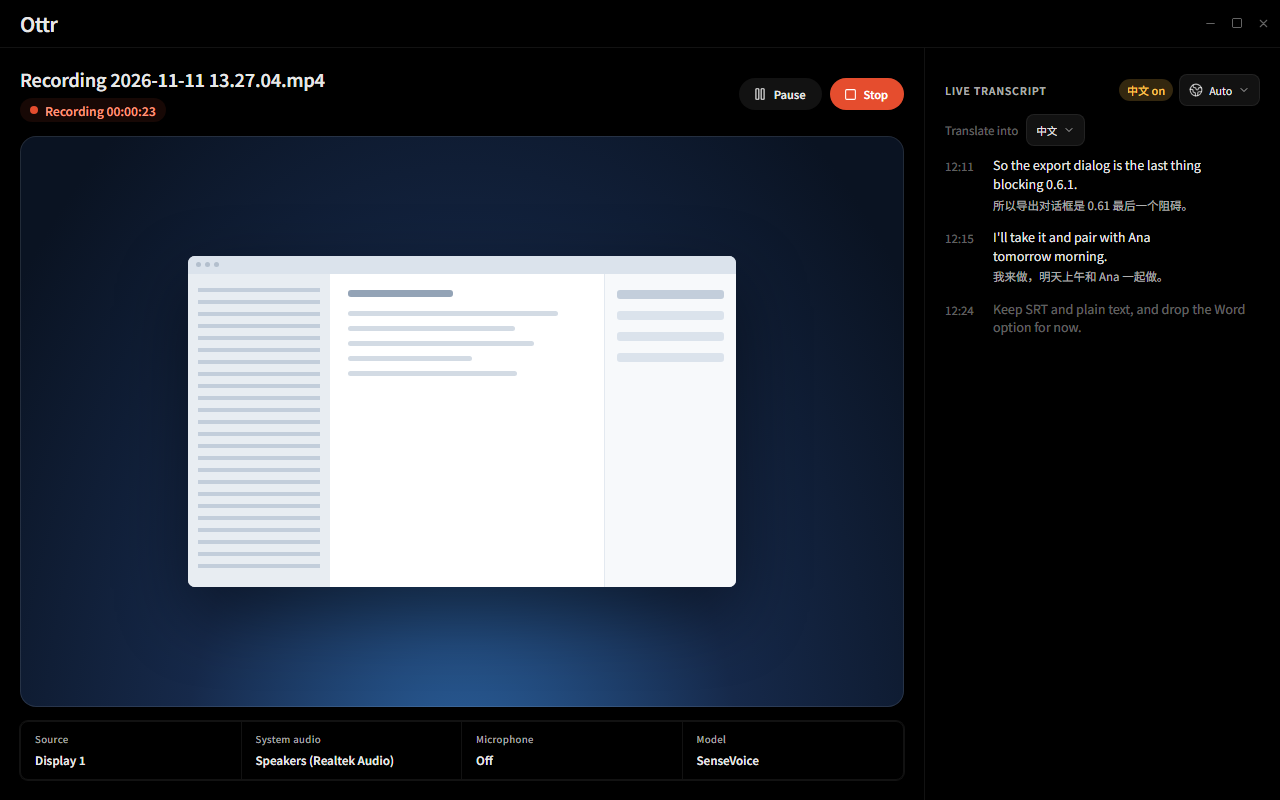
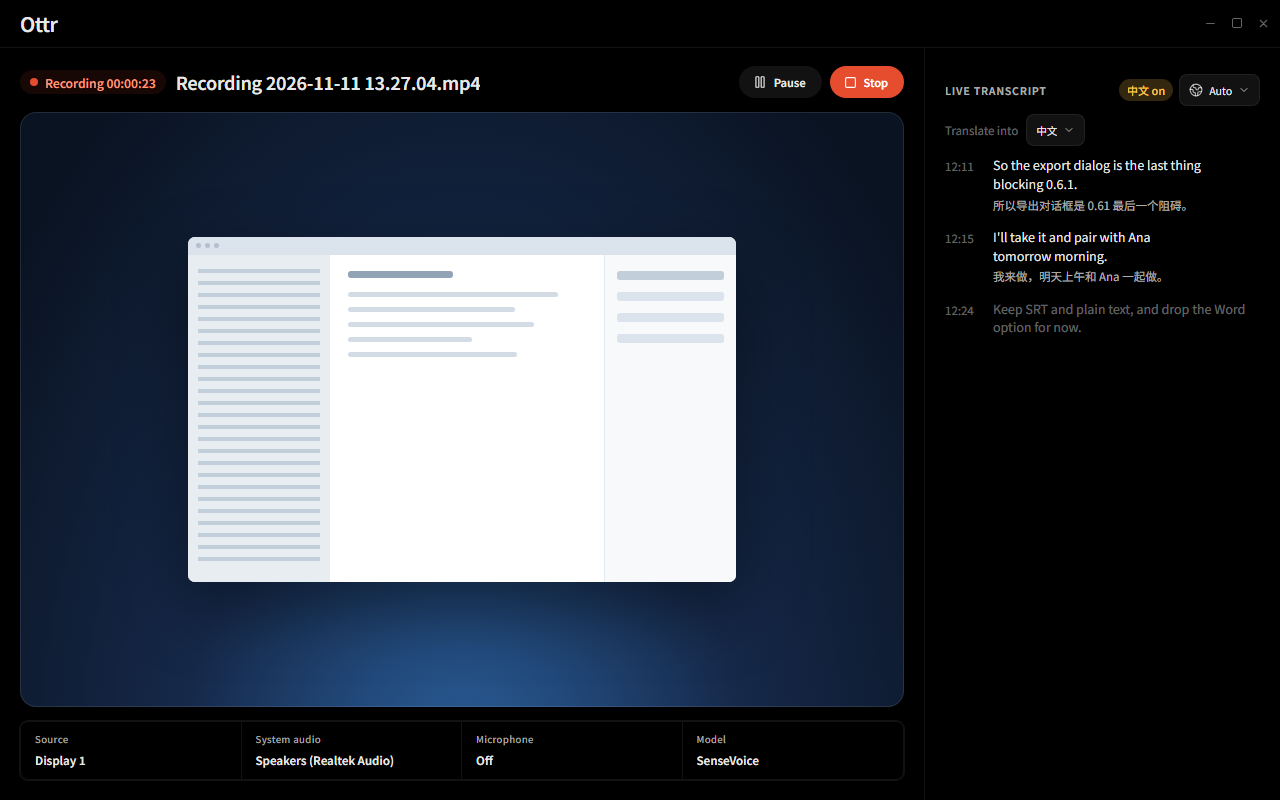
feat(ui): put the REC strip before the name, fix two switch labels
The strip reads before what it is recording, on the same line, so the eye
starts at "recording, 00:12:48" and ends at the file.

Two labels said the wrong thing in Chinese: the spoken language's fallback was
"Auto（自动）" in an otherwise Chinese interface, and a translation switched off
was named after the language — "English 已关闭" — when no translation is shown at
all. Auto is now "自动" in Chinese and stays "Auto" in English, and off reads
"翻译已关闭" / "Translate off". On still names the language it shows.

Design: frames 03 and 04 pushed and re-exported.

Ran at this sha:
- Red check: TestRecordingSwitchLabelsInChinese failed on the parent with
  "Auto（自动）" and "翻译 已关闭"; passes now.
- Full suite: CGO_ENABLED=1 go test ./... locally -> all packages ok, 45 s.
- Real use: OTTR_PREVIEW 03 at 1280 beside the canvas screenshot.
- Not run: a real capture on a device, CI at the pushed head.
Docs: docs/architecture.md, docs/design/README.md.

Changed region(s): [[0.125, 0.2812, 0.5938, 0.75], [0.0, 0.0625, 0.7188, 0.1875]]

diff --git a/docs/design/pages/04-recording-dark.html b/docs/design/pages/04-recording-dark.html
@@ -14,7 +14,7 @@ time,.ptime,.factsrow b,.thumb time,.card-thumb time,.duration{font-variant-nume
 body.dark .player,body.dark .preview,body.dark .thumb,body.dark .card-thumb{box-shadow:inset 0 0 0 1px #ffffff1a}
 body.dark .setrow,body.dark .modelrow,body.dark .factsrow,body.dark .spk{box-shadow:0 0 0 1px #ffffff12}
 @media (prefers-reduced-motion:reduce){*,*:before,*:after{transition:none!important;animation:none!important}}
-.detail{flex:1;display:grid;grid-template-columns:minmax(0,1fr) 356px;min-height:0}.stage{padding:18px 20px 20px;display:flex;flex-direction:column;min-height:0}.head{display:flex;align-items:center;gap:8px;margin-bottom:14px}.head h1{font-size:17px;font-weight:680;letter-spacing:-.3px}.player{border-radius:16px;overflow:hidden;position:relative;flex:1;min-height:420px;background:radial-gradient(ellipse at 50% 118%,#2b62a0 0,#16294a 45%,#0a1322 90%)}.scene{position:absolute;inset:0;display:grid;place-items:center}.scene-win{width:62%;height:58%;background:#f4f6f8;border-radius:7px;box-shadow:0 26px 70px #0007;overflow:hidden}.sb{height:18px;background:#dbe3ec;display:flex;gap:4px;align-items:center;padding-left:8px}.sb i{width:5px;height:5px;border-radius:50%;background:#b3bfcd}.sc{display:grid;grid-template-columns:26% 50% 24%;height:calc(100% - 18px)}.ss{background:#e8edf2;position:relative}.ss:before{content:"";position:absolute;inset:14px 10px;background:repeating-linear-gradient(#c3cedb 0 4px,transparent 4px 12px)}.sm{background:#fff;padding:16px 18px}.sm strong{display:block;height:7px;width:44%;background:#93a3b6;border-radius:3px;margin-bottom:14px}.sm span{display:block;height:5px;background:#d3dbe4;border-radius:3px;margin-bottom:10px;width:88%}.sm span:nth-child(3){width:70%}.sm span:nth-child(4){width:78%}.sm span:nth-child(5){width:52%}.sm span:nth-child(6){width:71%}.sr{background:#f7f9fb;border-left:1px solid #e3e9f0;padding:16px 12px}.sr b{display:block;height:9px;border-radius:3px;background:#dbe3ec;margin-bottom:12px}.sr b:first-child{background:#c3cedb}.pcontrols{position:absolute;left:0;right:0;bottom:0;padding:12px 18px 6px;color:#fff;background:linear-gradient(transparent,#000a 40%,#000d)}.ptop{display:flex;align-items:center;gap:12px;font-size:12px}.ptop time{opacity:.9}.seek{height:4px;border-radius:4px;background:#ffffff3b;margin-top:9px;position:relative}.seek i{display:block;width:62%;height:100%;background:#fff;border-radius:4px}.seek b{position:absolute;left:62%;top:-4px;width:12px;height:12px;border-radius:50%;background:#fff;transform:translateX(-50%)}.factsrow{display:grid;grid-template-columns:repeat(4,1fr);border:1px solid var(--border);border-radius:8px;margin-top:14px}.factsrow div{padding:10px 14px;border-right:1px solid var(--border)}.factsrow div:last-child{border:0}.factsrow small{display:block;font-size:9.5px;letter-spacing:.05em;color:var(--secondary);margin-bottom:3px}.factsrow b{font-size:11.5px}.side{border-left:1px solid var(--border);padding:12px 12px 0;display:flex;flex-direction:column;min-height:0}.tabbar{display:flex;align-items:center;gap:16px;height:36px;border-bottom:1px solid var(--border);font-size:12px;color:var(--secondary)}.tabbar b{color:var(--primary);font-weight:650;border-bottom:2px solid var(--brand);height:36px;display:flex;align-items:center}.tabbar .icon-btn{width:26px;height:26px}.ttools{position:relative;display:flex;gap:6px;align-items:center;margin-top:10px}.ttools .search{height:32px;font-size:11px;padding:0 10px}.searchbtn{width:32px;height:32px;flex:none;border:1px solid var(--border);border-radius:8px;background:var(--component);display:grid;place-items:center;color:var(--secondary)}.searchbtn:hover{background:var(--component-hover);color:var(--primary)}.searchpanel{display:none;position:absolute;left:38px;right:0;top:0;height:32px;align-items:center;gap:8px;padding:0 10px;border:1px solid var(--border);border-radius:8px;background:var(--page);box-shadow:var(--shadow-default);z-index:3}.ttools.searching .searchpanel{display:flex}.searchpanel input{border:0;background:none;outline:none;flex:1;width:0;min-width:0;font:inherit;font-size:11px;color:var(--primary)}.searchpanel input::placeholder{color:var(--tertiary)}.langsel{height:32px;flex:none;max-width:118px;min-width:0;border:1px solid var(--border);border-radius:8px;background:var(--component);display:flex;align-items:center;gap:6px;padding:0 9px;font-size:10.5px;color:var(--primary)}.langsel:hover{background:var(--component-hover)}.langsel .ic{color:var(--secondary)}.langsel .val{min-width:0;overflow:hidden;text-overflow:ellipsis;white-space:nowrap;flex:1}.ttools .search{flex:1;min-width:70px}.pill{height:32px;max-width:150px;border:1px solid var(--border);border-radius:999px;background:var(--component);color:var(--secondary);font-size:10.5px;display:flex;align-items:center;gap:5px;padding:0 9px;white-space:nowrap;overflow:hidden}.pill .ic{flex:none}.switch{width:26px;height:15px;border-radius:999px;background:var(--brand);position:relative;margin-left:10px}.switch i{position:absolute;right:2px;top:2px;width:11px;height:11px;border-radius:50%;background:#fff}.switchlab{font-size:10.5px;color:var(--tertiary)}.subs{display:grid;gap:10px;margin-top:14px;overflow:hidden}.srow{display:flex;gap:10px}.avatar{width:30px;height:30px;flex:none;border-radius:50%;background:#0090ff29;color:var(--brand);display:grid;place-items:center;font-size:10px;font-weight:650}.sbody{min-width:0;flex:1}.shead{display:flex;align-items:center;gap:8px;margin-bottom:2px;font-size:10px}.shead time{color:var(--secondary);font-variant-numeric:tabular-nums}.shead b{font-size:11px;font-weight:650}.bubble{padding:7px 11px;border-radius:10px;background:var(--component)}.bubble p{font-size:11.5px;line-height:1.5}.bubble .tr{margin-top:3px;font-size:10.5px;color:var(--secondary)}.srow.s2 .avatar{background:#30a46c29;color:#008647}.srow.s3 .avatar{background:#f76b1529;color:#cc4e00}.srow.s4 .avatar{background:#e54d2e29;color:#d72400}body.dark .avatar{background:#0090ff33;color:#3b9eff}body.dark .srow.s2 .avatar{background:#30a46c33;color:#43fea4}body.dark .srow.s3 .avatar{background:#f76b1533;color:#ffa057}body.dark .srow.s4 .avatar{background:#e54d2e33;color:#ff977d}.titles{display:flex;flex-direction:column;align-items:flex-start;gap:6px;min-width:0}.titles h1{font-size:18px;font-weight:680;letter-spacing:-.2px;white-space:nowrap;overflow:hidden;text-overflow:ellipsis}
+.detail{flex:1;display:grid;grid-template-columns:minmax(0,1fr) 356px;min-height:0}.stage{padding:18px 20px 20px;display:flex;flex-direction:column;min-height:0}.head{display:flex;align-items:center;gap:8px;margin-bottom:14px}.head h1{font-size:17px;font-weight:680;letter-spacing:-.3px}.player{border-radius:16px;overflow:hidden;position:relative;flex:1;min-height:420px;background:radial-gradient(ellipse at 50% 118%,#2b62a0 0,#16294a 45%,#0a1322 90%)}.scene{position:absolute;inset:0;display:grid;place-items:center}.scene-win{width:62%;height:58%;background:#f4f6f8;border-radius:7px;box-shadow:0 26px 70px #0007;overflow:hidden}.sb{height:18px;background:#dbe3ec;display:flex;gap:4px;align-items:center;padding-left:8px}.sb i{width:5px;height:5px;border-radius:50%;background:#b3bfcd}.sc{display:grid;grid-template-columns:26% 50% 24%;height:calc(100% - 18px)}.ss{background:#e8edf2;position:relative}.ss:before{content:"";position:absolute;inset:14px 10px;background:repeating-linear-gradient(#c3cedb 0 4px,transparent 4px 12px)}.sm{background:#fff;padding:16px 18px}.sm strong{display:block;height:7px;width:44%;background:#93a3b6;border-radius:3px;margin-bottom:14px}.sm span{display:block;height:5px;background:#d3dbe4;border-radius:3px;margin-bottom:10px;width:88%}.sm span:nth-child(3){width:70%}.sm span:nth-child(4){width:78%}.sm span:nth-child(5){width:52%}.sm span:nth-child(6){width:71%}.sr{background:#f7f9fb;border-left:1px solid #e3e9f0;padding:16px 12px}.sr b{display:block;height:9px;border-radius:3px;background:#dbe3ec;margin-bottom:12px}.sr b:first-child{background:#c3cedb}.pcontrols{position:absolute;left:0;right:0;bottom:0;padding:12px 18px 6px;color:#fff;background:linear-gradient(transparent,#000a 40%,#000d)}.ptop{display:flex;align-items:center;gap:12px;font-size:12px}.ptop time{opacity:.9}.seek{height:4px;border-radius:4px;background:#ffffff3b;margin-top:9px;position:relative}.seek i{display:block;width:62%;height:100%;background:#fff;border-radius:4px}.seek b{position:absolute;left:62%;top:-4px;width:12px;height:12px;border-radius:50%;background:#fff;transform:translateX(-50%)}.factsrow{display:grid;grid-template-columns:repeat(4,1fr);border:1px solid var(--border);border-radius:8px;margin-top:14px}.factsrow div{padding:10px 14px;border-right:1px solid var(--border)}.factsrow div:last-child{border:0}.factsrow small{display:block;font-size:9.5px;letter-spacing:.05em;color:var(--secondary);margin-bottom:3px}.factsrow b{font-size:11.5px}.side{border-left:1px solid var(--border);padding:12px 12px 0;display:flex;flex-direction:column;min-height:0}.tabbar{display:flex;align-items:center;gap:16px;height:36px;border-bottom:1px solid var(--border);font-size:12px;color:var(--secondary)}.tabbar b{color:var(--primary);font-weight:650;border-bottom:2px solid var(--brand);height:36px;display:flex;align-items:center}.tabbar .icon-btn{width:26px;height:26px}.ttools{position:relative;display:flex;gap:6px;align-items:center;margin-top:10px}.ttools .search{height:32px;font-size:11px;padding:0 10px}.searchbtn{width:32px;height:32px;flex:none;border:1px solid var(--border);border-radius:8px;background:var(--component);display:grid;place-items:center;color:var(--secondary)}.searchbtn:hover{background:var(--component-hover);color:var(--primary)}.searchpanel{display:none;position:absolute;left:38px;right:0;top:0;height:32px;align-items:center;gap:8px;padding:0 10px;border:1px solid var(--border);border-radius:8px;background:var(--page);box-shadow:var(--shadow-default);z-index:3}.ttools.searching .searchpanel{display:flex}.searchpanel input{border:0;background:none;outline:none;flex:1;width:0;min-width:0;font:inherit;font-size:11px;color:var(--primary)}.searchpanel input::placeholder{color:var(--tertiary)}.langsel{height:32px;flex:none;max-width:118px;min-width:0;border:1px solid var(--border);border-radius:8px;background:var(--component);display:flex;align-items:center;gap:6px;padding:0 9px;font-size:10.5px;color:var(--primary)}.langsel:hover{background:var(--component-hover)}.langsel .ic{color:var(--secondary)}.langsel .val{min-width:0;overflow:hidden;text-overflow:ellipsis;white-space:nowrap;flex:1}.ttools .search{flex:1;min-width:70px}.pill{height:32px;max-width:150px;border:1px solid var(--border);border-radius:999px;background:var(--component);color:var(--secondary);font-size:10.5px;display:flex;align-items:center;gap:5px;padding:0 9px;white-space:nowrap;overflow:hidden}.pill .ic{flex:none}.switch{width:26px;height:15px;border-radius:999px;background:var(--brand);position:relative;margin-left:10px}.switch i{position:absolute;right:2px;top:2px;width:11px;height:11px;border-radius:50%;background:#fff}.switchlab{font-size:10.5px;color:var(--tertiary)}.subs{display:grid;gap:10px;margin-top:14px;overflow:hidden}.srow{display:flex;gap:10px}.avatar{width:30px;height:30px;flex:none;border-radius:50%;background:#0090ff29;color:var(--brand);display:grid;place-items:center;font-size:10px;font-weight:650}.sbody{min-width:0;flex:1}.shead{display:flex;align-items:center;gap:8px;margin-bottom:2px;font-size:10px}.shead time{color:var(--secondary);font-variant-numeric:tabular-nums}.shead b{font-size:11px;font-weight:650}.bubble{padding:7px 11px;border-radius:10px;background:var(--component)}.bubble p{font-size:11.5px;line-height:1.5}.bubble .tr{margin-top:3px;font-size:10.5px;color:var(--secondary)}.srow.s2 .avatar{background:#30a46c29;color:#008647}.srow.s3 .avatar{background:#f76b1529;color:#cc4e00}.srow.s4 .avatar{background:#e54d2e29;color:#d72400}body.dark .avatar{background:#0090ff33;color:#3b9eff}body.dark .srow.s2 .avatar{background:#30a46c33;color:#43fea4}body.dark .srow.s3 .avatar{background:#f76b1533;color:#ffa057}body.dark .srow.s4 .avatar{background:#e54d2e33;color:#ff977d}.titles{display:flex;align-items:center;gap:10px;min-width:0}.titles h1{font-size:18px;font-weight:680;letter-spacing:-.2px;white-space:nowrap;overflow:hidden;text-overflow:ellipsis}
 .rec-pill{display:inline-flex;align-items:center;gap:7px;height:24px;padding:0 10px;border-radius:999px;background:#e54d2e1a;color:var(--danger);font-size:12px;font-weight:600;font-variant-numeric:tabular-nums}
 .livehead{display:flex;align-items:center;gap:6px;padding:14px 8px 8px 8px;flex:none}.livehead .caps{flex:1;font-size:10.5px;font-weight:600;letter-spacing:.08em;text-transform:uppercase;color:var(--secondary)}
 .livehead .chip{display:inline-flex;align-items:center;height:22px;padding:0 8px;border-radius:999px;font-size:11px;font-weight:500;background:#fff4db;color:#8a5600}body.dark .livehead .chip{background:#33270f;color:#ffc453}
@@ -23,7 +23,7 @@ body.dark .setrow,body.dark .modelrow,body.dark .factsrow,body.dark .spk{box-sha
 .lrow{display:flex;gap:12px}.lrow time{flex:none;width:36px;padding-top:2px;font-size:11.5px;color:var(--tertiary);font-variant-numeric:tabular-nums}.lrow .lt{flex:1;min-width:0;font-size:12.5px;line-height:1.5;color:var(--primary);margin:0}.lrow .lt .tr{display:block;margin-top:3px;font-size:11.5px;color:var(--secondary)}
 .lrow.live .lt{color:var(--tertiary)}
 </style></head><body class="dark"><div class="app"><header class="titlebar"><div class="brand">Ottr</div><div class="spacer"></div><div class="win"><svg class="ic " width="13" height="13" xmlns="http://www.w3.org/2000/svg"  viewBox="0 0 24 24"><path fill="none" stroke="currentColor" stroke-linecap="round" stroke-linejoin="round" stroke-width="2" d="M5 12h14"/></svg><svg class="ic " width="12" height="12" xmlns="http://www.w3.org/2000/svg"  viewBox="0 0 24 24"><rect width="18" height="18" x="3" y="3" fill="none" stroke="currentColor" stroke-linecap="round" stroke-linejoin="round" stroke-width="2" rx="2"/></svg><svg class="ic " width="13" height="13" xmlns="http://www.w3.org/2000/svg"  viewBox="0 0 24 24"><path fill="none" stroke="currentColor" stroke-linecap="round" stroke-linejoin="round" stroke-width="2" d="M18 6L6 18M6 6l12 12"/></svg></div></header><main class="detail"><section class="stage">
-<div class="head"><div class="titles"><h1>Recording 2026-11-11 13.27.04.mp4</h1><span class="rec-pill"><span style="width:8px;height:8px;border-radius:50%;background:var(--danger-solid)"></span>Recording 00:00:23</span></div><div class="spacer"></div><button class="btn secondary sm"><svg class="ic " width="14" height="14" xmlns="http://www.w3.org/2000/svg"  viewBox="0 0 24 24"><g fill="none" stroke="currentColor" stroke-linecap="round" stroke-linejoin="round" stroke-width="2"><rect width="5" height="18" x="14" y="3" rx="1"/><rect width="5" height="18" x="5" y="3" rx="1"/></g></svg>Pause</button><button class="btn stop sm" data-doop-on="click" data-doop-action="navigate:7IAHHDxZVe" data-doop-transition="dissolve" data-doop-duration="250"><svg class="ic " width="13" height="13" xmlns="http://www.w3.org/2000/svg"  viewBox="0 0 24 24"><rect width="18" height="18" x="3" y="3" fill="none" stroke="currentColor" stroke-linecap="round" stroke-linejoin="round" stroke-width="2" rx="2"/></svg>Stop</button></div>
+<div class="head"><div class="titles"><span class="rec-pill"><span style="width:8px;height:8px;border-radius:50%;background:var(--danger-solid)"></span>Recording 00:00:23</span><h1>Recording 2026-11-11 13.27.04.mp4</h1></div><div class="spacer"></div><button class="btn secondary sm"><svg class="ic " width="14" height="14" xmlns="http://www.w3.org/2000/svg"  viewBox="0 0 24 24"><g fill="none" stroke="currentColor" stroke-linecap="round" stroke-linejoin="round" stroke-width="2"><rect width="5" height="18" x="14" y="3" rx="1"/><rect width="5" height="18" x="5" y="3" rx="1"/></g></svg>Pause</button><button class="btn stop sm" data-doop-on="click" data-doop-action="navigate:7IAHHDxZVe" data-doop-transition="dissolve" data-doop-duration="250"><svg class="ic " width="13" height="13" xmlns="http://www.w3.org/2000/svg"  viewBox="0 0 24 24"><rect width="18" height="18" x="3" y="3" fill="none" stroke="currentColor" stroke-linecap="round" stroke-linejoin="round" stroke-width="2" rx="2"/></svg>Stop</button></div>
 <div class="player"><div class="scene"><div class="scene-win"><div class="sb"><i></i><i></i><i></i></div><div class="sc"><div class="ss"></div><div class="sm"><strong></strong><span></span><span></span><span></span><span></span><span></span></div><div class="sr"><b></b><b></b><b></b><b></b></div></div></div></div></div>
 <div class="factsrow"><div><small>Source</small><b>Display 1</b></div><div><small>System audio</small><b>Speakers (Realtek Audio)</b></div><div><small>Microphone</small><b>Off</b></div><div><small>Model</small><b>SenseVoice</b></div></div>
 </section><aside class="side"><div class="livehead"><span class="caps">Live transcript</span><span class="chip">中文 on</span><button class="langsel selectbox" title="Spoken language" data-options="Auto|English|中文|日本語" data-value="Auto"><svg class="ic " width="14" height="14" xmlns="http://www.w3.org/2000/svg"  viewBox="0 0 24 24"><g fill="none" stroke="currentColor" stroke-linecap="round" stroke-linejoin="round" stroke-width="2"><path d="M21.54 15H17a2 2 0 0 0-2 2v4.54M7 3.34V5a3 3 0 0 0 3 3a2 2 0 0 1 2 2c0 1.1.9 2 2 2a2 2 0 0 0 2-2c0-1.1.9-2 2-2h3.17M11 21.95V18a2 2 0 0 0-2-2a2 2 0 0 1-2-2v-1a2 2 0 0 0-2-2H2.05"/><circle cx="12" cy="12" r="10"/></g></svg><span class="val">Auto</span><svg class="ic " width="12" height="12" xmlns="http://www.w3.org/2000/svg"  viewBox="0 0 24 24"><path fill="none" stroke="currentColor" stroke-linecap="round" stroke-linejoin="round" stroke-width="2" d="m6 9l6 6l6-6"/></svg></button></div>

diff --git a/docs/design/pages/03-recording.html b/docs/design/pages/03-recording.html
@@ -14,7 +14,7 @@ time,.ptime,.factsrow b,.thumb time,.card-thumb time,.duration{font-variant-nume
 body.dark .player,body.dark .preview,body.dark .thumb,body.dark .card-thumb{box-shadow:inset 0 0 0 1px #ffffff1a}
 body.dark .setrow,body.dark .modelrow,body.dark .factsrow,body.dark .spk{box-shadow:0 0 0 1px #ffffff12}
 @media (prefers-reduced-motion:reduce){*,*:before,*:after{transition:none!important;animation:none!important}}
-.detail{flex:1;display:grid;grid-template-columns:minmax(0,1fr) 356px;min-height:0}.stage{padding:18px 20px 20px;display:flex;flex-direction:column;min-height:0}.head{display:flex;align-items:center;gap:8px;margin-bottom:14px}.head h1{font-size:17px;font-weight:680;letter-spacing:-.3px}.player{border-radius:16px;overflow:hidden;position:relative;flex:1;min-height:420px;background:radial-gradient(ellipse at 50% 118%,#2b62a0 0,#16294a 45%,#0a1322 90%)}.scene{position:absolute;inset:0;display:grid;place-items:center}.scene-win{width:62%;height:58%;background:#f4f6f8;border-radius:7px;box-shadow:0 26px 70px #0007;overflow:hidden}.sb{height:18px;background:#dbe3ec;display:flex;gap:4px;align-items:center;padding-left:8px}.sb i{width:5px;height:5px;border-radius:50%;background:#b3bfcd}.sc{display:grid;grid-template-columns:26% 50% 24%;height:calc(100% - 18px)}.ss{background:#e8edf2;position:relative}.ss:before{content:"";position:absolute;inset:14px 10px;background:repeating-linear-gradient(#c3cedb 0 4px,transparent 4px 12px)}.sm{background:#fff;padding:16px 18px}.sm strong{display:block;height:7px;width:44%;background:#93a3b6;border-radius:3px;margin-bottom:14px}.sm span{display:block;height:5px;background:#d3dbe4;border-radius:3px;margin-bottom:10px;width:88%}.sm span:nth-child(3){width:70%}.sm span:nth-child(4){width:78%}.sm span:nth-child(5){width:52%}.sm span:nth-child(6){width:71%}.sr{background:#f7f9fb;border-left:1px solid #e3e9f0;padding:16px 12px}.sr b{display:block;height:9px;border-radius:3px;background:#dbe3ec;margin-bottom:12px}.sr b:first-child{background:#c3cedb}.pcontrols{position:absolute;left:0;right:0;bottom:0;padding:12px 18px 6px;color:#fff;background:linear-gradient(transparent,#000a 40%,#000d)}.ptop{display:flex;align-items:center;gap:12px;font-size:12px}.ptop time{opacity:.9}.seek{height:4px;border-radius:4px;background:#ffffff3b;margin-top:9px;position:relative}.seek i{display:block;width:62%;height:100%;background:#fff;border-radius:4px}.seek b{position:absolute;left:62%;top:-4px;width:12px;height:12px;border-radius:50%;background:#fff;transform:translateX(-50%)}.factsrow{display:grid;grid-template-columns:repeat(4,1fr);border:1px solid var(--border);border-radius:8px;margin-top:14px}.factsrow div{padding:10px 14px;border-right:1px solid var(--border)}.factsrow div:last-child{border:0}.factsrow small{display:block;font-size:9.5px;letter-spacing:.05em;color:var(--secondary);margin-bottom:3px}.factsrow b{font-size:11.5px}.side{border-left:1px solid var(--border);padding:12px 12px 0;display:flex;flex-direction:column;min-height:0}.tabbar{display:flex;align-items:center;gap:16px;height:36px;border-bottom:1px solid var(--border);font-size:12px;color:var(--secondary)}.tabbar b{color:var(--primary);font-weight:650;border-bottom:2px solid var(--brand);height:36px;display:flex;align-items:center}.tabbar .icon-btn{width:26px;height:26px}.ttools{position:relative;display:flex;gap:6px;align-items:center;margin-top:10px}.ttools .search{height:32px;font-size:11px;padding:0 10px}.searchbtn{width:32px;height:32px;flex:none;border:1px solid var(--border);border-radius:8px;background:var(--component);display:grid;place-items:center;color:var(--secondary)}.searchbtn:hover{background:var(--component-hover);color:var(--primary)}.searchpanel{display:none;position:absolute;left:38px;right:0;top:0;height:32px;align-items:center;gap:8px;padding:0 10px;border:1px solid var(--border);border-radius:8px;background:var(--page);box-shadow:var(--shadow-default);z-index:3}.ttools.searching .searchpanel{display:flex}.searchpanel input{border:0;background:none;outline:none;flex:1;width:0;min-width:0;font:inherit;font-size:11px;color:var(--primary)}.searchpanel input::placeholder{color:var(--tertiary)}.langsel{height:32px;flex:none;max-width:118px;min-width:0;border:1px solid var(--border);border-radius:8px;background:var(--component);display:flex;align-items:center;gap:6px;padding:0 9px;font-size:10.5px;color:var(--primary)}.langsel:hover{background:var(--component-hover)}.langsel .ic{color:var(--secondary)}.langsel .val{min-width:0;overflow:hidden;text-overflow:ellipsis;white-space:nowrap;flex:1}.ttools .search{flex:1;min-width:70px}.pill{height:32px;max-width:150px;border:1px solid var(--border);border-radius:999px;background:var(--component);color:var(--secondary);font-size:10.5px;display:flex;align-items:center;gap:5px;padding:0 9px;white-space:nowrap;overflow:hidden}.pill .ic{flex:none}.switch{width:26px;height:15px;border-radius:999px;background:var(--brand);position:relative;margin-left:10px}.switch i{position:absolute;right:2px;top:2px;width:11px;height:11px;border-radius:50%;background:#fff}.switchlab{font-size:10.5px;color:var(--tertiary)}.subs{display:grid;gap:10px;margin-top:14px;overflow:hidden}.srow{display:flex;gap:10px}.avatar{width:30px;height:30px;flex:none;border-radius:50%;background:#0090ff29;color:var(--brand);display:grid;place-items:center;font-size:10px;font-weight:650}.sbody{min-width:0;flex:1}.shead{display:flex;align-items:center;gap:8px;margin-bottom:2px;font-size:10px}.shead time{color:var(--secondary);font-variant-numeric:tabular-nums}.shead b{font-size:11px;font-weight:650}.bubble{padding:7px 11px;border-radius:10px;background:var(--component)}.bubble p{font-size:11.5px;line-height:1.5}.bubble .tr{margin-top:3px;font-size:10.5px;color:var(--secondary)}.srow.s2 .avatar{background:#30a46c29;color:#008647}.srow.s3 .avatar{background:#f76b1529;color:#cc4e00}.srow.s4 .avatar{background:#e54d2e29;color:#d72400}body.dark .avatar{background:#0090ff33;color:#3b9eff}body.dark .srow.s2 .avatar{background:#30a46c33;color:#43fea4}body.dark .srow.s3 .avatar{background:#f76b1533;color:#ffa057}body.dark .srow.s4 .avatar{background:#e54d2e33;color:#ff977d}.titles{display:flex;flex-direction:column;align-items:flex-start;gap:6px;min-width:0}.titles h1{font-size:18px;font-weight:680;letter-spacing:-.2px;white-space:nowrap;overflow:hidden;text-overflow:ellipsis}
+.detail{flex:1;display:grid;grid-template-columns:minmax(0,1fr) 356px;min-height:0}.stage{padding:18px 20px 20px;display:flex;flex-direction:column;min-height:0}.head{display:flex;align-items:center;gap:8px;margin-bottom:14px}.head h1{font-size:17px;font-weight:680;letter-spacing:-.3px}.player{border-radius:16px;overflow:hidden;position:relative;flex:1;min-height:420px;background:radial-gradient(ellipse at 50% 118%,#2b62a0 0,#16294a 45%,#0a1322 90%)}.scene{position:absolute;inset:0;display:grid;place-items:center}.scene-win{width:62%;height:58%;background:#f4f6f8;border-radius:7px;box-shadow:0 26px 70px #0007;overflow:hidden}.sb{height:18px;background:#dbe3ec;display:flex;gap:4px;align-items:center;padding-left:8px}.sb i{width:5px;height:5px;border-radius:50%;background:#b3bfcd}.sc{display:grid;grid-template-columns:26% 50% 24%;height:calc(100% - 18px)}.ss{background:#e8edf2;position:relative}.ss:before{content:"";position:absolute;inset:14px 10px;background:repeating-linear-gradient(#c3cedb 0 4px,transparent 4px 12px)}.sm{background:#fff;padding:16px 18px}.sm strong{display:block;height:7px;width:44%;background:#93a3b6;border-radius:3px;margin-bottom:14px}.sm span{display:block;height:5px;background:#d3dbe4;border-radius:3px;margin-bottom:10px;width:88%}.sm span:nth-child(3){width:70%}.sm span:nth-child(4){width:78%}.sm span:nth-child(5){width:52%}.sm span:nth-child(6){width:71%}.sr{background:#f7f9fb;border-left:1px solid #e3e9f0;padding:16px 12px}.sr b{display:block;height:9px;border-radius:3px;background:#dbe3ec;margin-bottom:12px}.sr b:first-child{background:#c3cedb}.pcontrols{position:absolute;left:0;right:0;bottom:0;padding:12px 18px 6px;color:#fff;background:linear-gradient(transparent,#000a 40%,#000d)}.ptop{display:flex;align-items:center;gap:12px;font-size:12px}.ptop time{opacity:.9}.seek{height:4px;border-radius:4px;background:#ffffff3b;margin-top:9px;position:relative}.seek i{display:block;width:62%;height:100%;background:#fff;border-radius:4px}.seek b{position:absolute;left:62%;top:-4px;width:12px;height:12px;border-radius:50%;background:#fff;transform:translateX(-50%)}.factsrow{display:grid;grid-template-columns:repeat(4,1fr);border:1px solid var(--border);border-radius:8px;margin-top:14px}.factsrow div{padding:10px 14px;border-right:1px solid var(--border)}.factsrow div:last-child{border:0}.factsrow small{display:block;font-size:9.5px;letter-spacing:.05em;color:var(--secondary);margin-bottom:3px}.factsrow b{font-size:11.5px}.side{border-left:1px solid var(--border);padding:12px 12px 0;display:flex;flex-direction:column;min-height:0}.tabbar{display:flex;align-items:center;gap:16px;height:36px;border-bottom:1px solid var(--border);font-size:12px;color:var(--secondary)}.tabbar b{color:var(--primary);font-weight:650;border-bottom:2px solid var(--brand);height:36px;display:flex;align-items:center}.tabbar .icon-btn{width:26px;height:26px}.ttools{position:relative;display:flex;gap:6px;align-items:center;margin-top:10px}.ttools .search{height:32px;font-size:11px;padding:0 10px}.searchbtn{width:32px;height:32px;flex:none;border:1px solid var(--border);border-radius:8px;background:var(--component);display:grid;place-items:center;color:var(--secondary)}.searchbtn:hover{background:var(--component-hover);color:var(--primary)}.searchpanel{display:none;position:absolute;left:38px;right:0;top:0;height:32px;align-items:center;gap:8px;padding:0 10px;border:1px solid var(--border);border-radius:8px;background:var(--page);box-shadow:var(--shadow-default);z-index:3}.ttools.searching .searchpanel{display:flex}.searchpanel input{border:0;background:none;outline:none;flex:1;width:0;min-width:0;font:inherit;font-size:11px;color:var(--primary)}.searchpanel input::placeholder{color:var(--tertiary)}.langsel{height:32px;flex:none;max-width:118px;min-width:0;border:1px solid var(--border);border-radius:8px;background:var(--component);display:flex;align-items:center;gap:6px;padding:0 9px;font-size:10.5px;color:var(--primary)}.langsel:hover{background:var(--component-hover)}.langsel .ic{color:var(--secondary)}.langsel .val{min-width:0;overflow:hidden;text-overflow:ellipsis;white-space:nowrap;flex:1}.ttools .search{flex:1;min-width:70px}.pill{height:32px;max-width:150px;border:1px solid var(--border);border-radius:999px;background:var(--component);color:var(--secondary);font-size:10.5px;display:flex;align-items:center;gap:5px;padding:0 9px;white-space:nowrap;overflow:hidden}.pill .ic{flex:none}.switch{width:26px;height:15px;border-radius:999px;background:var(--brand);position:relative;margin-left:10px}.switch i{position:absolute;right:2px;top:2px;width:11px;height:11px;border-radius:50%;background:#fff}.switchlab{font-size:10.5px;color:var(--tertiary)}.subs{display:grid;gap:10px;margin-top:14px;overflow:hidden}.srow{display:flex;gap:10px}.avatar{width:30px;height:30px;flex:none;border-radius:50%;background:#0090ff29;color:var(--brand);display:grid;place-items:center;font-size:10px;font-weight:650}.sbody{min-width:0;flex:1}.shead{display:flex;align-items:center;gap:8px;margin-bottom:2px;font-size:10px}.shead time{color:var(--secondary);font-variant-numeric:tabular-nums}.shead b{font-size:11px;font-weight:650}.bubble{padding:7px 11px;border-radius:10px;background:var(--component)}.bubble p{font-size:11.5px;line-height:1.5}.bubble .tr{margin-top:3px;font-size:10.5px;color:var(--secondary)}.srow.s2 .avatar{background:#30a46c29;color:#008647}.srow.s3 .avatar{background:#f76b1529;color:#cc4e00}.srow.s4 .avatar{background:#e54d2e29;color:#d72400}body.dark .avatar{background:#0090ff33;color:#3b9eff}body.dark .srow.s2 .avatar{background:#30a46c33;color:#43fea4}body.dark .srow.s3 .avatar{background:#f76b1533;color:#ffa057}body.dark .srow.s4 .avatar{background:#e54d2e33;color:#ff977d}.titles{display:flex;align-items:center;gap:10px;min-width:0}.titles h1{font-size:18px;font-weight:680;letter-spacing:-.2px;white-space:nowrap;overflow:hidden;text-overflow:ellipsis}
 .rec-pill{display:inline-flex;align-items:center;gap:7px;height:24px;padding:0 10px;border-radius:999px;background:#e54d2e1a;color:var(--danger);font-size:12px;font-weight:600;font-variant-numeric:tabular-nums}
 .livehead{display:flex;align-items:center;gap:6px;padding:14px 8px 8px 8px;flex:none}.livehead .caps{flex:1;font-size:10.5px;font-weight:600;letter-spacing:.08em;text-transform:uppercase;color:var(--secondary)}
 .livehead .chip{display:inline-flex;align-items:center;height:22px;padding:0 8px;border-radius:999px;font-size:11px;font-weight:500;background:#fff4db;color:#8a5600}body.dark .livehead .chip{background:#33270f;color:#ffc453}
@@ -23,7 +23,7 @@ body.dark .setrow,body.dark .modelrow,body.dark .factsrow,body.dark .spk{box-sha
 .lrow{display:flex;gap:12px}.lrow time{flex:none;width:36px;padding-top:2px;font-size:11.5px;color:var(--tertiary);font-variant-numeric:tabular-nums}.lrow .lt{flex:1;min-width:0;font-size:12.5px;line-height:1.5;color:var(--primary);margin:0}.lrow .lt .tr{display:block;margin-top:3px;font-size:11.5px;color:var(--secondary)}
 .lrow.live .lt{color:var(--tertiary)}
 </style></head><body><div class="app"><header class="titlebar"><div class="brand">Ottr</div><div class="spacer"></div><div class="win"><svg class="ic " width="13" height="13" xmlns="http://www.w3.org/2000/svg"  viewBox="0 0 24 24"><path fill="none" stroke="currentColor" stroke-linecap="round" stroke-linejoin="round" stroke-width="2" d="M5 12h14"/></svg><svg class="ic " width="12" height="12" xmlns="http://www.w3.org/2000/svg"  viewBox="0 0 24 24"><rect width="18" height="18" x="3" y="3" fill="none" stroke="currentColor" stroke-linecap="round" stroke-linejoin="round" stroke-width="2" rx="2"/></svg><svg class="ic " width="13" height="13" xmlns="http://www.w3.org/2000/svg"  viewBox="0 0 24 24"><path fill="none" stroke="currentColor" stroke-linecap="round" stroke-linejoin="round" stroke-width="2" d="M18 6L6 18M6 6l12 12"/></svg></div></header><main class="detail"><section class="stage">
-<div class="head"><div class="titles"><h1>Recording 2026-11-11 13.27.04.mp4</h1><span class="rec-pill"><span style="width:8px;height:8px;border-radius:50%;background:var(--danger-solid)"></span>Recording 00:00:23</span></div><div class="spacer"></div><button class="btn secondary sm"><svg class="ic " width="14" height="14" xmlns="http://www.w3.org/2000/svg"  viewBox="0 0 24 24"><g fill="none" stroke="currentColor" stroke-linecap="round" stroke-linejoin="round" stroke-width="2"><rect width="5" height="18" x="14" y="3" rx="1"/><rect width="5" height="18" x="5" y="3" rx="1"/></g></svg>Pause</button><button class="btn stop sm" data-doop-on="click" data-doop-action="navigate:7IAHHDxZVe" data-doop-transition="dissolve" data-doop-duration="250"><svg class="ic " width="13" height="13" xmlns="http://www.w3.org/2000/svg"  viewBox="0 0 24 24"><rect width="18" height="18" x="3" y="3" fill="none" stroke="currentColor" stroke-linecap="round" stroke-linejoin="round" stroke-width="2" rx="2"/></svg>Stop</button></div>
+<div class="head"><div class="titles"><span class="rec-pill"><span style="width:8px;height:8px;border-radius:50%;background:var(--danger-solid)"></span>Recording 00:00:23</span><h1>Recording 2026-11-11 13.27.04.mp4</h1></div><div class="spacer"></div><button class="btn secondary sm"><svg class="ic " width="14" height="14" xmlns="http://www.w3.org/2000/svg"  viewBox="0 0 24 24"><g fill="none" stroke="currentColor" stroke-linecap="round" stroke-linejoin="round" stroke-width="2"><rect width="5" height="18" x="14" y="3" rx="1"/><rect width="5" height="18" x="5" y="3" rx="1"/></g></svg>Pause</button><button class="btn stop sm" data-doop-on="click" data-doop-action="navigate:7IAHHDxZVe" data-doop-transition="dissolve" data-doop-duration="250"><svg class="ic " width="13" height="13" xmlns="http://www.w3.org/2000/svg"  viewBox="0 0 24 24"><rect width="18" height="18" x="3" y="3" fill="none" stroke="currentColor" stroke-linecap="round" stroke-linejoin="round" stroke-width="2" rx="2"/></svg>Stop</button></div>
 <div class="player"><div class="scene"><div class="scene-win"><div class="sb"><i></i><i></i><i></i></div><div class="sc"><div class="ss"></div><div class="sm"><strong></strong><span></span><span></span><span></span><span></span><span></span></div><div class="sr"><b></b><b></b><b></b><b></b></div></div></div></div></div>
 <div class="factsrow"><div><small>Source</small><b>Display 1</b></div><div><small>System audio</small><b>Speakers (Realtek Audio)</b></div><div><small>Microphone</small><b>Off</b></div><div><small>Model</small><b>SenseVoice</b></div></div>
 </section><aside class="side"><div class="livehead"><span class="caps">Live transcript</span><span class="chip">中文 on</span><button class="langsel selectbox" title="Spoken language" data-options="Auto|English|中文|日本語" data-value="Auto"><svg class="ic " width="14" height="14" xmlns="http://www.w3.org/2000/svg"  viewBox="0 0 24 24"><g fill="none" stroke="currentColor" stroke-linecap="round" stroke-linejoin="round" stroke-width="2"><path d="M21.54 15H17a2 2 0 0 0-2 2v4.54M7 3.34V5a3 3 0 0 0 3 3a2 2 0 0 1 2 2c0 1.1.9 2 2 2a2 2 0 0 0 2-2c0-1.1.9-2 2-2h3.17M11 21.95V18a2 2 0 0 0-2-2a2 2 0 0 1-2-2v-1a2 2 0 0 0-2-2H2.05"/><circle cx="12" cy="12" r="10"/></g></svg><span class="val">Auto</span><svg class="ic " width="12" height="12" xmlns="http://www.w3.org/2000/svg"  viewBox="0 0 24 24"><path fill="none" stroke="currentColor" stroke-linecap="round" stroke-linejoin="round" stroke-width="2" d="m6 9l6 6l6-6"/></svg></button></div>

diff --git a/internal/native/recorder.go b/internal/native/recorder.go
@@ -59,17 +59,13 @@ func (a *App) recordingHead(c *ui.Context, t *ui.Theme) {
 	if name == "" {
 		name = a.tr("Recording")
 	}
-	ui.Row(c).FillWidth().Gap(8).AlignItems(ui.Center).Children(func() {
-		ui.Column(c).Grow(1).MinWidth(0).Gap(6).Children(func() {
-			ui.Text(c, name).FontSize(18).FontWeight(600).LetterSpacing(-0.2).TextColor(p.Ink).
-				SingleLine().MinWidth(0)
-			ui.Row(c).Gap(8).AlignItems(ui.Center).Children(func() {
-				a.recordingPill(c, t)
-				if a.busy {
-					ui.Spinner(c).Label(a.tr("Finishing")).Size(14, 14)
-				}
-			})
-		})
+	ui.Row(c).FillWidth().Gap(10).AlignItems(ui.Center).Children(func() {
+		a.recordingPill(c, t)
+		ui.Text(c, name).FontSize(18).FontWeight(600).LetterSpacing(-0.2).TextColor(p.Ink).
+			Grow(1).MinWidth(0).SingleLine()
+		if a.busy {
+			ui.Spinner(c).Label(a.tr("Finishing")).Size(14, 14)
+		}
 		pauseLabel, pauseIcon := a.tr("Pause"), iconPause
 		if a.recordingPaused {
 			pauseLabel, pauseIcon = a.tr("Resume"), iconPlay
@@ -185,7 +181,8 @@ func (a *App) liveTranslateChip(c *ui.Context, t *ui.Theme) {
 	p := pal(t)
 	label := a.trf("%s on", langName(a.trLang))
 	if !a.liveTranslate {
-		label = a.trf("%s off", langName(a.trLang))
+		// Off names the switch, not a language: nothing is translated.
+		label = a.trf("%s off", a.tr("Translate"))
 	}
 	chip := ui.ButtonBase(c).Label(a.tr("Translate")).Tooltip(a.tr("Translate")).Role(ui.RoleSwitch).
 		Checked(a.liveTranslate).Height(22).Padding(0, 8).Radius(9999).Center().Cursor(ui.CursorPointer)

diff --git a/internal/native/i18n.go b/internal/native/i18n.go
@@ -178,7 +178,7 @@ var zhCN = map[string]string{
 	"Transcript":                         "转写",
 	"Translate":                          "翻译",
 	"Detected":                           "自动检测",
-	"Auto":                               "Auto（自动）",
+	"Auto":                               "自动",
 	"Speaker %d":                         "讲话者 %d",
 	"Speaker name":                       "讲话者名称",
 	"Rename speaker":                     "重命名讲话者",
@@ -315,8 +315,8 @@ var zhCN = map[string]string{
 	"%d of %d": "%d / %d",
 	"%dp":      "%dp",
 	"%s free":  "剩余 %s",
-	"%s off":   "%s 已关闭",
-	"%s on":    "%s 已开启",
+	"%s off":   "%s已关闭",
+	"%s on":    "%s已开启",
 	"%s turns speech into text, with speakers, on your CPU.": "%s 在你的 CPU 上把语音转成文字，并区分讲话者。",
 	"%s under lines": "%s 显示在每行下方",
 	"1 item":         "1 项",

diff --git a/internal/native/app_test.go b/internal/native/app_test.go
@@ -784,3 +784,19 @@ func TestAppearanceChangesTheLook(t *testing.T) {
 		t.Errorf("the app kept the look %q", a.theme)
 	}
 }
+
+// The two switches the recording page shows read in the interface's own words:
+// the spoken language falls back to "自动" in Chinese, and a translation that is
+// off names the switch, not a language nobody is seeing.
+func TestRecordingSwitchLabelsInChinese(t *testing.T) {
+	a := &App{language: "zh"}
+	if got := a.tr("Auto"); got != "自动" {
+		t.Errorf("the spoken language fallback reads %q, want 自动", got)
+	}
+	if got := a.trf("%s off", a.tr("Translate")); got != "翻译已关闭" {
+		t.Errorf("a translation turned off reads %q, want 翻译已关闭", got)
+	}
+	if got := a.trf("%s on", langName("zh")); got != "中文已开启" {
+		t.Errorf("a translation turned on reads %q, want 中文已开启", got)
+	}
+}

diff --git a/docs/architecture.md b/docs/architecture.md
@@ -76,7 +76,7 @@ One native window holds everything; it changes shape with its width (1280 wide,
 | Rail (`rail`, from 900 px) | New recording, Library, summaries, Speakers and Settings, as 36 px icon buttons |
 | Library (`libraryPage`) | search, the filter chips and the media list or grid: a 16:9 thumbnail, status chips, the name, the source and the date, with a menu of the actions |
 | Recording form (`sourceSection`, `audioSection`) | source cards, the preview, the display select, and the audio, live-transcript and translate selects |
-| Recording page (`recordingPage`, while a recording runs) | the whole window in the item page's shell: the file being written as the title with the REC strip under it, Pause/Stop, the live picture in the stage, the facts strip, and the live transcript with its translation on the right |
+| Recording page (`recordingPage`, while a recording runs) | the whole window in the item page's shell: the REC strip and the file being written on one line, Pause/Stop, the live picture in the stage, the facts strip, and the live transcript with its translation on the right |
 | Session page (`sessionPage`) | the way back, the name with `Show file` and `Delete`, the player stage, the fact strip, and the Transcript/Summary tabs |
 | Settings (`settingsPage`) | the section chosen in the sidebar: the model, the AI endpoint and prompts, the speaker library, or the look |
 

diff --git a/docs/design/README.md b/docs/design/README.md
@@ -17,7 +17,7 @@ Open any file in `pages/` in a browser. Each one is the frame's own HTML, self-c
 | --- | --- | --- |
 | `01-recorder` | 1280×800 | Sidebar, library list and the New capture panel |
 | `02-recorder-dark` | 1280×800 | Same, dark |
-| `03-recording` | 1280×800 | Recording, in the item page's shell: the file being written as the title with the REC strip under it, Pause/Stop, the live picture in the stage, the facts strip, and the live transcript on the right |
+| `03-recording` | 1280×800 | Recording, in the item page's shell: the REC strip and the file being written on one line, Pause/Stop, the live picture in the stage, the facts strip, and the live transcript on the right |
 | `04-recording-dark` | 1280×800 | Same, dark |
 | `05-transcribing` | 1280×800 | Item page after Stop: the pipeline card (transcribe → translate → summarize) |
 | `06-playback` | 1280×800 | Item page: way back, stage, chapter-segmented seek bar, facts strip, document panel |
